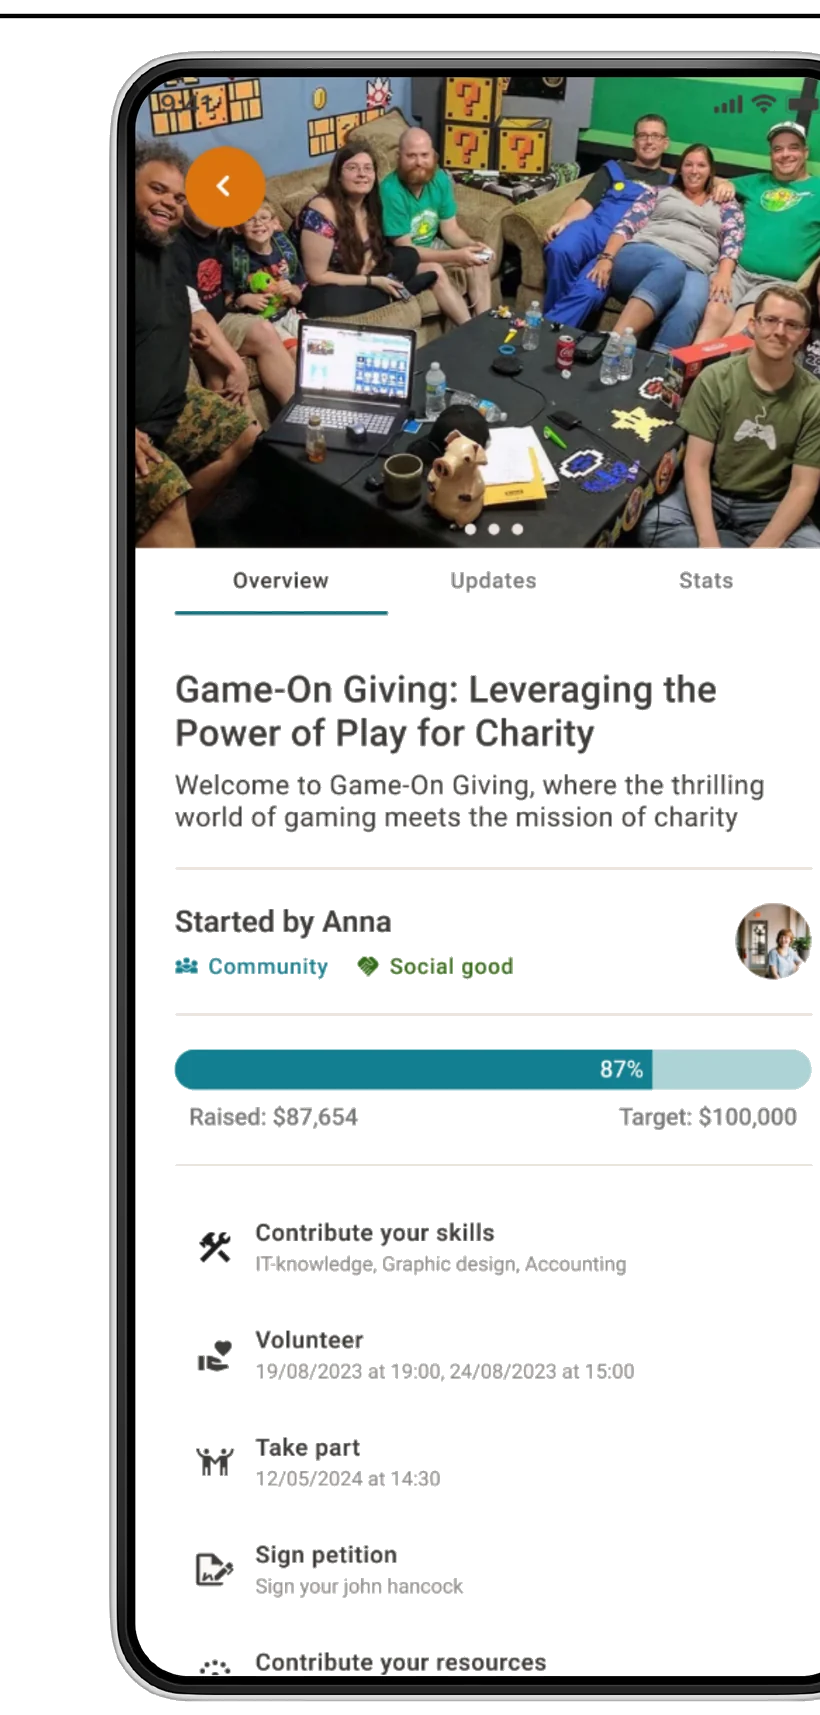
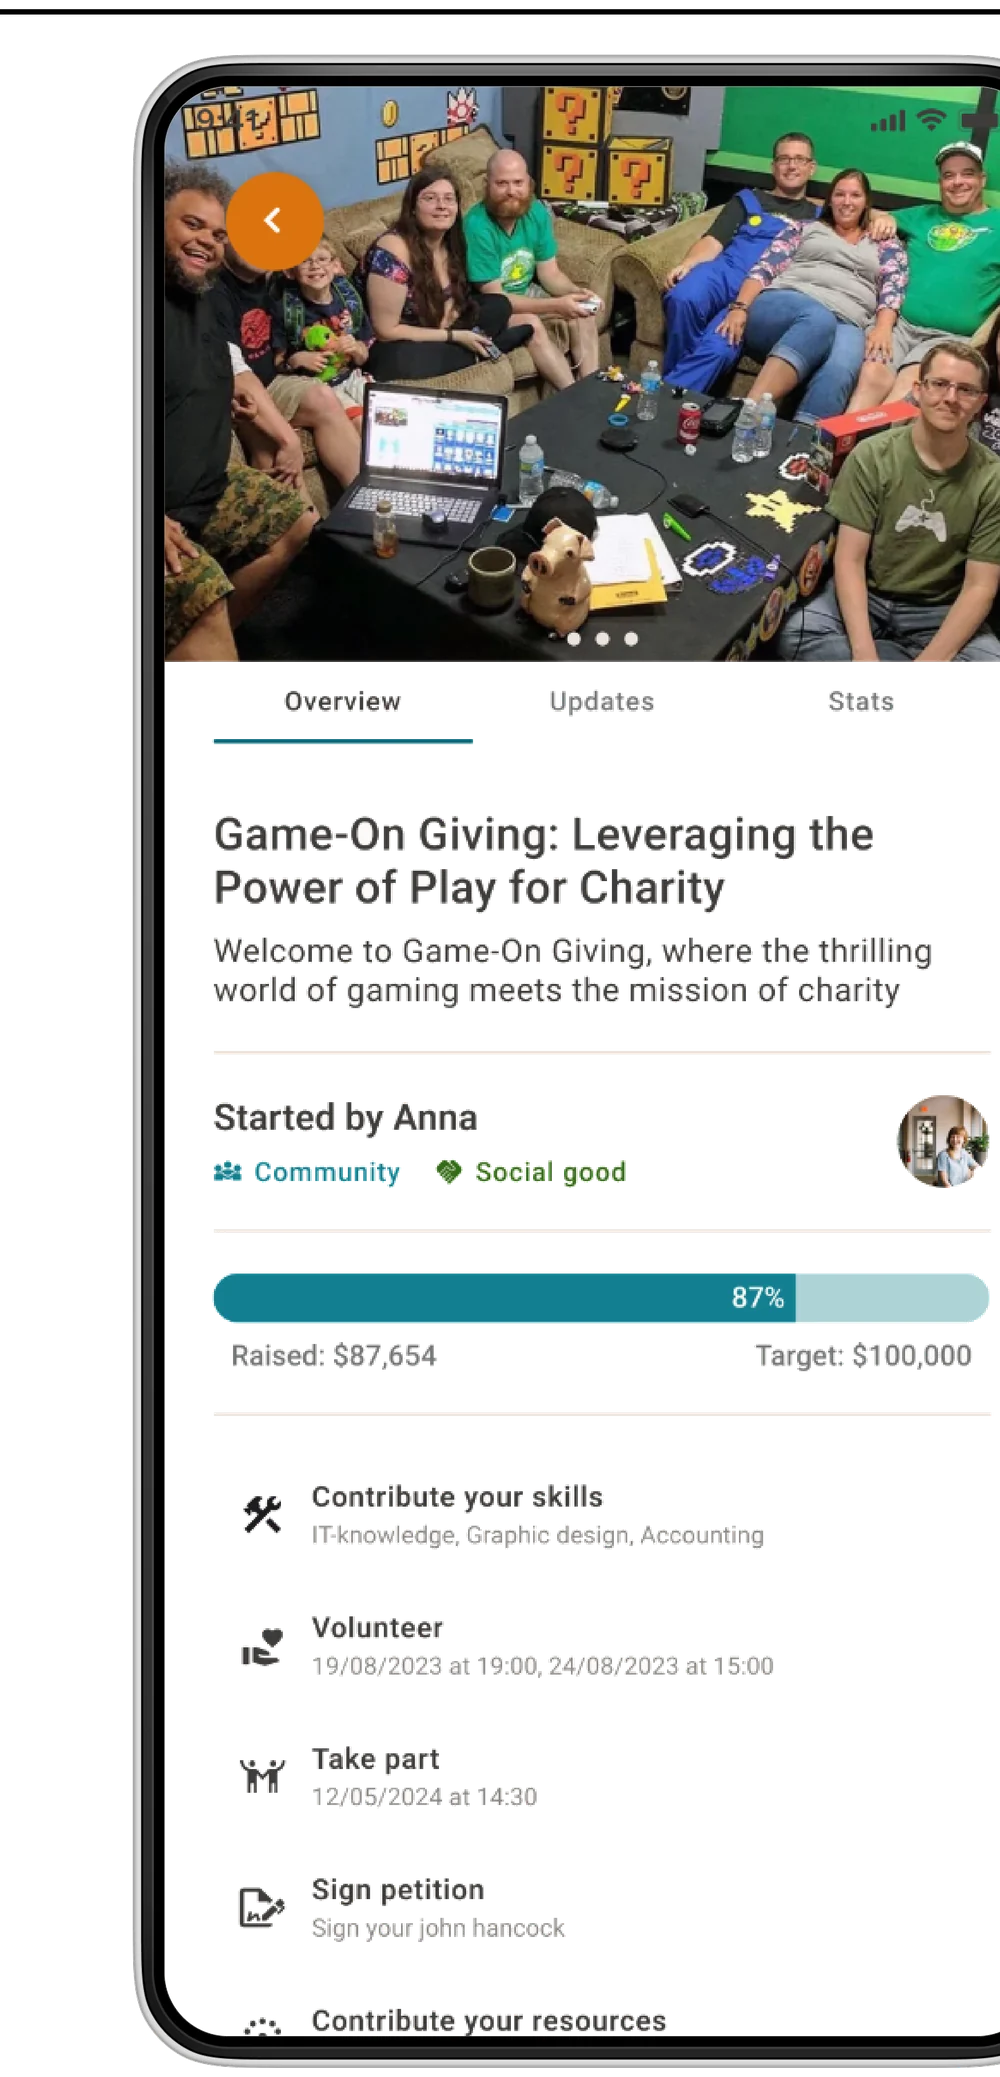
Higher-res app mockups (400dpi re-extract) + wrangler config
- Re-extracted all 6 phone mockups from the deck at 400dpi -> 1800px duos /
  1000px singles (sharper on retina); updated img dimensions
- Added wrangler.jsonc (name=poola-website, assets=./) so 'wrangler deploy'
  runs non-interactively; excluded config from the asset upload

diff --git a/index.html b/index.html
@@ -55,10 +55,10 @@
     <div class="hero__stage">
       <div class="hero__halo"></div>
       <div class="hero__phone hero__phone--back">
-        <img src="assets/app/pool-page.webp" alt="" width="820" height="1715">
+        <img src="assets/app/pool-page.webp" alt="" width="1000" height="2077">
       </div>
       <div class="hero__phone hero__phone--front">
-        <img src="assets/app/hero-explore.webp" alt="The Poola app showing a feed of community Pools to explore" width="800" height="2049">
+        <img src="assets/app/hero-explore.webp" alt="The Poola app showing a feed of community Pools to explore" width="1000" height="2545">
       </div>
       <div class="hero__chip hero__chip--1"><i class="fa-solid fa-bolt" style="color:var(--orange)"></i> People Power</div>
       <div class="hero__chip hero__chip--2">
@@ -116,7 +116,7 @@
         </div>
       </div>
       <div class="split__media is-bare media-glow" data-reveal="right">
-        <img src="assets/app/people-power.webp" alt="Poola screens showing ways to contribute: skills, resources, volunteering and signing" loading="lazy" width="1400" height="1352">
+        <img src="assets/app/people-power.webp" alt="Poola screens showing ways to contribute: skills, resources, volunteering and signing" loading="lazy" width="1800" height="1733">
       </div>
     </div>
   </div>
@@ -202,7 +202,7 @@
     <h2 class="center balance" style="max-width:18ch;margin:0 auto 14px;">Discover Pools near you and across the world.</h2>
     <p class="lead center" style="margin:0 auto 44px;">Explore, map, contribute and follow the story — all in one beautifully simple place.</p>
     <div class="split__media is-bare media-glow" data-reveal="scale" style="max-width:940px;margin-inline:auto;">
-      <img src="assets/app/explore-map.webp" alt="Poola Explore feed and map view of local Pools by category" loading="lazy" width="1400" height="1352">
+      <img src="assets/app/explore-map.webp" alt="Poola Explore feed and map view of local Pools by category" loading="lazy" width="1800" height="1733">
     </div>
     <p class="center" style="margin-top:32px;">
       <a class="btn" href="how-it-works.html" data-magnetic>See how Poola works <span class="arr"><i class="fa-solid fa-arrow-right"></i></span></a>

diff --git a/how-it-works.html b/how-it-works.html
@@ -54,7 +54,7 @@
         <p class="muted">Pool Starters launch the campaign. Poolers dive in to back it. Everyone can watch the progress, the updates and the impact in real time.</p>
       </div>
       <div class="split__media is-bare media-glow" data-reveal="right">
-        <img src="assets/app/pool-page.webp" alt="A Poola Pool page showing the funding progress bar and ways to contribute" loading="lazy" width="820" height="1715">
+        <img src="assets/app/pool-page.webp" alt="A Poola Pool page showing the funding progress bar and ways to contribute" loading="lazy" width="1000" height="2077">
       </div>
     </div>
   </div>
@@ -93,7 +93,7 @@
         </div>
       </div>
       <div class="split__media is-bare media-glow" data-reveal="left">
-        <img src="assets/app/explore-map.webp" alt="Poola Explore feed and an interactive map of local Pools" loading="lazy" width="1400" height="1352">
+        <img src="assets/app/explore-map.webp" alt="Poola Explore feed and an interactive map of local Pools" loading="lazy" width="1800" height="1733">
       </div>
     </div>
   </div>
@@ -110,7 +110,7 @@
         <p class="muted">Stories build trust and keep people coming back — fixing the 75% who never return to a campaign again.</p>
       </div>
       <div class="split__media is-bare media-glow" data-reveal="right">
-        <img src="assets/app/pool-newsroom.webp" alt="A Poola Pool overview and the NewsPool feed of stories" loading="lazy" width="1400" height="1358">
+        <img src="assets/app/pool-newsroom.webp" alt="A Poola Pool overview and the NewsPool feed of stories" loading="lazy" width="1800" height="1741">
       </div>
     </div>
   </div>
@@ -137,7 +137,7 @@
         </div>
       </div>
       <div class="split__media is-bare media-glow" data-reveal="left">
-        <img src="assets/app/dashboard-toolkit.webp" alt="The Poola creator dashboard with tracking and the crowdsourcing toolkit" loading="lazy" width="1400" height="1358">
+        <img src="assets/app/dashboard-toolkit.webp" alt="The Poola creator dashboard with tracking and the crowdsourcing toolkit" loading="lazy" width="1800" height="1741">
       </div>
     </div>
   </div>
